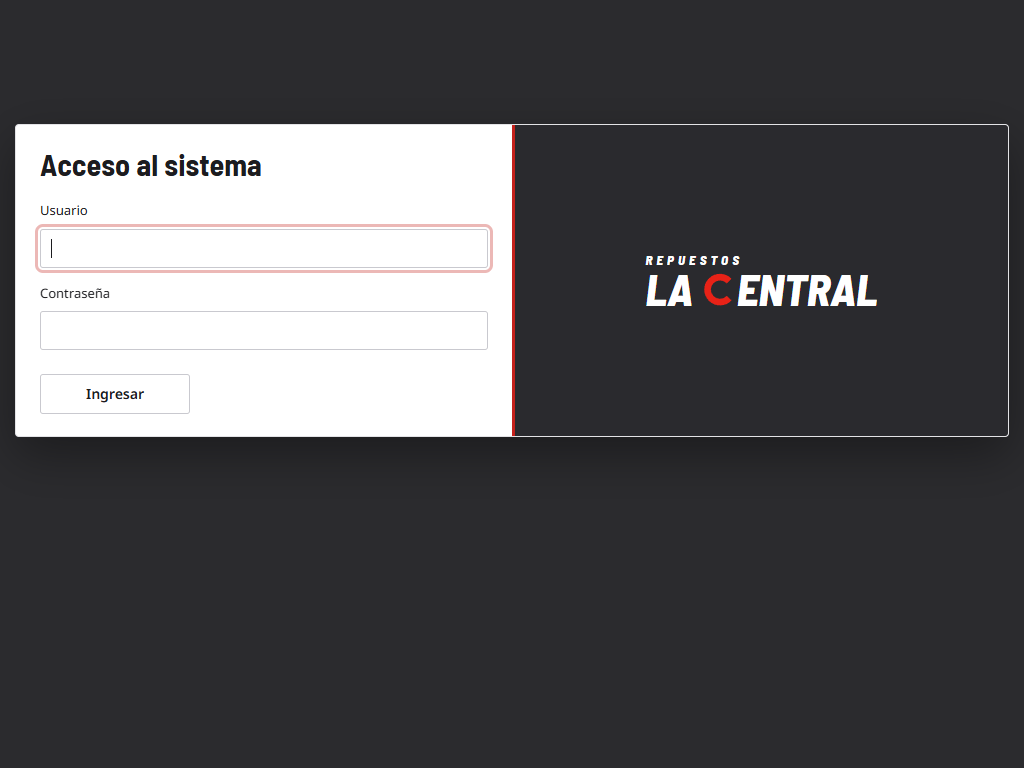
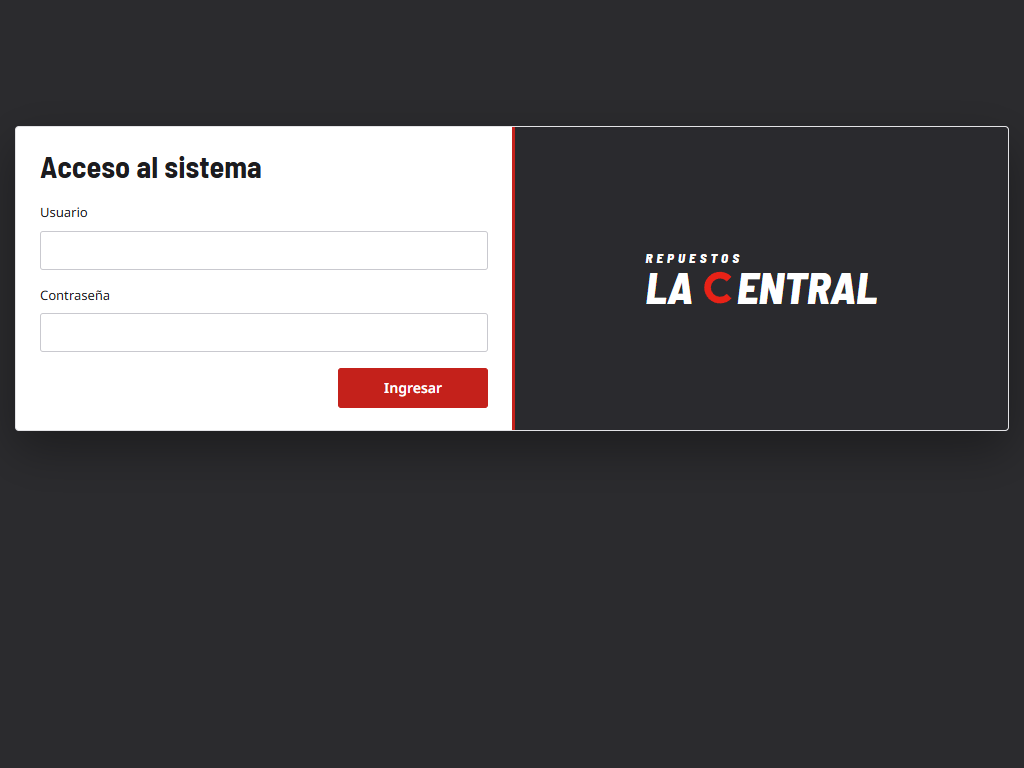
docs(HU-UI-03): ESTADO y cuerpo del PR con la extensión del formulario y el primario

diff --git a/docs/sprint04/ESTADO.md b/docs/sprint04/ESTADO.md
@@ -295,7 +295,7 @@ la vinculación funcionando con su pantalla. Todo lo demás es negociable; eso n
 |---|---|---|---|---|---|
 | Pista C · C1 | 017 · HU-STK-01 | **Mergeada en develop (#131, 20/10/2026).** Compuerta APTO (verificador y auditor). Cuerpo en `docs/sprint04/pr-hu-stk-01.md` | `feature/HU-STK-01-existencias-ubicacion` | #131 · Refs #24 | 435 (148) |
 | Pista B · B1 | 039 · HU-UI-01 | **Mergeada en develop (#130, 20/10/2026).** Aprobada con correcciones (Lauti), aplicadas antes del merge. CA2 NO verificado como está escrito | `feature/HU-UI-01-estructura-base` | #130 · Refs #40 | backend 435 (148) · frontend 21 |
-| Pista C · HU 041 + Fase 2 | 041 · HU-UI-03 | **En la rama, sin push (29/10/2026).** CA-001 a CA-004 pasan. Acceso NO verificado contra 01-acceso.png (no está en el repo) | `feature/hu-ui-03-control-de-sesion` (de `develop`) | — | frontend 74 (48 + 26) · backend 436, 148 sin enlace |
+| Pista C · HU 041 + Fase 2 | 041 · HU-UI-03 | **PR abierto contra develop (29/10/2026).** CA-001 a CA-004 pasan. Acceso NO verificado contra 01-acceso.png (no está en el repo) | `feature/hu-ui-03-control-de-sesion` (de `develop`) | cuerpo en `docs/sprint04/pr-hu-ui-03.md` | frontend 83 (48 + 35) · backend 436, 148 sin enlace |
 
 **Deuda nueva, de entorno (19/10/2026):** con un rol personal de PostgreSQL con tope de
 conexiones (`lacentral_lauti`), `dotnet test` en paralelo da **140 fallos falsos**
@@ -490,7 +490,8 @@ commitea en `develop`, todo entra por PR.
 ## HU-UI-03 · 041 + Fase 2 · control de sesión, marco y acceso (29/10/2026)
 
 Rama `feature/hu-ui-03-control-de-sesion`, sale de `develop` (6a4a942): la Fase 1 (#135) y la
-HU-UI-05 (#134) ya están ahí. **Sin push**, a la espera de aprobación.
+HU-UI-05 (#134) ya están ahí. Push aprobado el 29/10/2026; PR contra `develop`, con el cuerpo en
+`docs/sprint04/pr-hu-ui-03.md`.
 
 **Hecho:**
 - **Sesión en `sessionStorage`** (decisión de la adenda §5): sobrevive a F5 en la misma pestaña
@@ -502,10 +503,22 @@ HU-UI-05 (#134) ya están ahí. **Sin push**, a la espera de aprobación.
 - **Marco:** `diseno/marca.ts` montada por primera vez (compacta en el encabezado, completa en el
   acceso), filete rojo bajo el encabezado grafito, usuario y rol a la derecha con Salir (`oscuro`),
   pie en `--grafito-2`. El activo conserva la raya blanca y `aria-current="page"`.
-- **Acceso:** tarjeta partida (formulario | panel de marca) sobre `.fondo-hex`. Ingresar es el
-  único `.primario`, con estado de carga. Los errores van al aviso flotante de error, un objeto
+- **Acceso:** tarjeta partida (formulario | panel de marca) sobre `.fondo-hex`. Usa
+  `compartido/formulario/`: es su primer consumidor. Ingresar es el único `.primario`, con estado
+  de carga. Los errores van al aviso flotante de error, un objeto
   `{ texto }` por intento. Un 401 dice siempre «Usuario o contraseña incorrectos.», aunque el
   servidor dijera de más. Al abrirse, el foco queda en Usuario.
+- **Extensión de `compartido/formulario/` (componente ajeno, recién mergeado).** Decisión del
+  29/10/2026: va en este PR y no en uno aparte, por calendario (el sprint cierra el 30/10). Se
+  agregó `'password'` a `CampoFormulario.tipo` y `autocompletar` (el atributo `autocomplete`).
+  Motivo: el componente no soportó su primer uso real. Sin `password`, la contraseña se ve en
+  claro. Sin `username` y `current-password`, los gestores de contraseñas no completan el acceso
+  y el operador escribe a mano todos los días. Lo revisa Javi sabiendo que está.
+- **`button.primario` en `styles.css`: hueco de la Fase 1 que este PR cierra.** La clase se
+  declaraba (formulario, acceso) pero ninguna regla la pintaba, y no la hubo en ninguna rama. Sale
+  de la §7: relleno `--rojo`, texto `--blanco`, `--rojo-osc` al apoyar el cursor. La capa, el foco,
+  la carga y el deshabilitado son los de la base. Se levantó, con motivo, la restricción de no
+  tocar `styles.css`: es un defecto en código mergeado, no trabajo en paralelo.
 - Manual: `docs/manual/acceso.md` (DoD 9) y `navegacion.md` corregido (F5 y la raya blanca).
 - Proforma 041 en E4 con los CA marcados.
 
@@ -516,13 +529,16 @@ HU-UI-05 (#134) ya están ahí. **Sin push**, a la espera de aprobación.
   entrar, el usuario queda en la pantalla que pidió.
 - **CA-004** pasa. En Chrome real, `history.back()` después de Salir muestra el acceso.
 
-**Tests:** frontend **74/74** (48 previos + 26 nuevos). Backend: **436 en total; 288 verdes y 148
+**Tests:** frontend **83/83** (48 previos + 35 nuevos). Backend: **436 en total; 288 verdes y 148
 en rojo por `Timeout during connection attempt` contra 100.125.169.91:5432** (enlace de
 Tailscale). No hubo `53300`. Son exactamente los 148 de PostgreSQL, y esta rama no toca backend.
 
-**Mutaciones:** 21 sobre producción (`sesion.ts`, `login.ts`, `app.ts`). Las 21 ponen al menos un
-test en rojo. El bug de `#usuario` (abajo), reintroducido tal cual, deja en rojo solo el test del
-cuerpo del login.
+**Mutaciones:** 35 distintas sobre producción: `sesion.ts`, `login.ts`, `app.ts`, `formulario.ts`
+y la regla `button.primario`. Todas dejan al menos un test en rojo. Dos sobrevivieron
+después de migrar el acceso al formulario (la contraseña como texto, sin `autocompletar`): el
+formulario lo probaba en general, pero no que la pantalla lo pidiera. Se agregó ese test y las dos
+mueren. El bug de `#usuario` (abajo), reintroducido tal cual, deja en rojo solo el test del cuerpo
+del login.
 
 **Bug encontrado por la evidencia, no por los tests:** la referencia `#usuario` tapaba a la
 propiedad `usuario` del `ngModel`, y el campo mostraba `[object HTMLInputElement]`. Ningún test
@@ -545,27 +561,41 @@ afirmaba qué credenciales se envían. Ciclo rojo → arreglo en `d14a0bd`.
   «Acceso al sistema».
 - **Fondo hexagonal.** `public/fondo-hex.jpg` no está. `.fondo-hex` apunta al archivo y se ve el
   respaldo `--fondo-hex-respaldo` (#2b2b2e).
-- **Ingresar no se ve primario.** `styles.css` no tiene regla `button.primario`, y no la tuvo nunca
-  en ninguna rama. La clase está aplicada (test) pero el botón pinta como secundario. Pasa lo mismo
-  con el botón de `compartido/formulario/`. No se tocó `styles.css`.
 - **DoD 10** (contra `lacentral_demo`): C3 sigue pendiente. El recorrido en el navegador fue con
   la API interceptada (401/200 en el login, 503 o 401 en el resto), sin backend.
 - **Solo Chromium.**
 
-**Hallazgos para decidir:**
-1. **`compartido/formulario/` no soportó su primer uso real.** `CampoFormulario.tipo` no admite
-   `'password'` y no hay `autocomplete`. Sin eso la contraseña se vería en claro y los gestores de
-   contraseñas no completan el campo. Los campos del acceso siguen siendo los que había (`shortcut:`
-   en `login.ts`); no se armó otro formulario ni se parcheó desde afuera. Migrar son ~10 líneas
-   cuando el formulario tenga los dos.
-2. **El aviso flotante pierde el foco al cerrarse** (queda en `body`) y Escape no lo cierra. Es de
-   `compartido/aviso-flotante.ts`; no se tocó.
-3. **HU-UI-06 no está en develop.** `confirmacion-motivo.ts` vive solo en
-   `origin/feature/hu-ui-06-confirmacion-con-motivo`, que además modifica `formulario.ts`
-   (`maximo`, `coincideCon`, `varianteEnviar`, slot de acciones).
-4. **Token para el filete y el panel de marca.** Se usó `--grosor-foco` (3 px), como ya hace la
-   raya del activo en `styles.css`. Si el filete tiene otro grosor, hace falta un token.
-5. **`node_modules` sin Karma.** `ng test` fallaba con `Cannot find module 'karma-jasmine'`. Se
+**Referencias y fondo:** los sube Javi. Se le pidieron el 29/10/2026, porque bloquean tres
+declaraciones de esta HU: acceso contra 01-acceso.png, marco contra su referencia y fondo
+hexagonal. Se le ofreció hacer la recompresión de las cuatro capturas pesadas que tiene
+pendiente el PR #132.
+
+**HU-UI-06 · pendiente (29/10/2026).** No está en develop: `confirmacion-motivo.ts` vive solo en
+`origin/feature/hu-ui-06-confirmacion-con-motivo`, y no se tocó. Esa rama modifica `formulario.ts`
+(`maximo`, `coincideCon`, `varianteEnviar`, slot de acciones) y este PR también (`password`,
+`autocompletar`). Cuando entre, necesita un merge con lo de acá.
+
+**Deuda · `compartido/aviso-flotante.ts`, foco y Escape (29/10/2026).** Medido en Chrome:
+- al cerrar el aviso con teclado, el foco cae en `body`;
+- Escape no lo cierra.
+
+No viola la especificación: la §8 exige Escape para el modal y no dice nada del aviso. El hueco
+está en el documento antes que en el código. Un aviso de error no se va solo y no se cierra con
+teclado, así que el usuario de teclado queda con un cartel del que solo sale con el mouse.
+- **Deuda del componente:** al cerrarse, devolver el foco al elemento que lo originó, y cerrar con
+  Escape.
+- **Propuesta de agregado a la §8** (fila «Aviso flotante»; la aprueba Javi antes de implementarla):
+  «Escape cierra el aviso que tiene el foco o, si ninguno lo tiene, el de error a la vista. Al
+  cerrarse, el foco vuelve al elemento que lo originó; si ya no existe, al primer control de la
+  pantalla, nunca a `body`.»
+
+**Observaciones sin decidir:**
+1. **Grosor del filete y del panel de marca.** Se usó `--grosor-foco` (3 px), como ya hace la raya
+   del activo en `styles.css`. Si el filete tiene otro grosor, hace falta un token.
+2. **`button.peligro` no pone el texto en blanco.** La §7 dice «`--peligro`, texto blanco», y la
+   regla solo pone el relleno, así que el texto queda en `--tinta` sobre rojo oscuro. Es otro hueco
+   de la Fase 1 y está fuera del alcance de este PR: no se tocó.
+3. **`node_modules` sin Karma.** `ng test` fallaba con `Cannot find module 'karma-jasmine'`. Se
    arregló con `npm ci` (el lock no cambió). `npm` sigue bloqueando los 4 install scripts de N4.
 
 **Deuda registrada · insumo del RNF de seguridad (29/10/2026).**
@@ -607,9 +637,9 @@ Va en `frontend/src/app/compartido/` y se prueba con
 criterios de la PISTA B. Avisar a Lauti y a Santi de la respuesta (b) de Sergio: HU-CMP-08 no se
 resuelve con archivo.
 
-**HU-UI-03 (041):** en `feature/hu-ui-03-control-de-sesion`, sin push. Antes del PR hace falta
-la aprobación, y antes de cerrarla, las decisiones de «Hallazgos para decidir» de la sección
-HU-UI-03: el `password` del formulario, la regla `button.primario` y las referencias visuales.
+**HU-UI-03 (041):** PR abierto contra `develop` (`docs/sprint04/pr-hu-ui-03.md`), en revisión.
+Faltan las referencias y el fondo de Javi para cerrar las tres declaraciones NO verificadas. Si
+entra HU-UI-06, va a necesitar un merge sobre `formulario.ts`.
 
 **Dónde parás de verdad:** si hace falta tocar el esquema, si un CA contradice a otro o al
 esquema, si falta una regla de negocio que nadie definió, si PostgreSQL no está disponible —una

diff --git a/docs/sprint04/pr-hu-ui-03.md b/docs/sprint04/pr-hu-ui-03.md
@@ -1,0 +1,103 @@
+## 041 · HU-UI-03 · Control de sesión, marco y acceso (con la Fase 2 del rediseño)
+
+Rama `feature/hu-ui-03-control-de-sesion`, base `develop` (6a4a942, con la Fase 1 #135 y la
+HU-UI-05 #134). La HU 041 y la Fase 2 van juntas por la adenda §2: son la misma pantalla.
+
+Los CA salen de `docs/historias/041-HU-UI-03.md`, que queda en E4.
+
+### Qué se hizo
+
+- **Sesión en `sessionStorage`** (adenda §5). Sobrevive a F5 en la misma pestaña y muere al
+  cerrarla. Salir la borra. Un valor ilegible cuenta como sin sesión. El token no se decodifica
+  en el navegador: el rol es el que devuelve el login (decisión de B1).
+- **Vencimiento (CA-002).** Un 401 con el token vigente cierra la sesión, y el acceso dice «Tu
+  sesión venció. Volvé a entrar.». Un 403 no la cierra. Un 401 tardío de un token anterior no
+  cierra la sesión nueva.
+- **Marco.**
+  - `diseno/marca.ts` montada por primera vez: compacta en el encabezado, completa en el acceso.
+  - Filete rojo bajo el encabezado grafito, y usuario y rol con Salir (`oscuro`) a la derecha.
+  - Pie en `--grafito-2`.
+  - El activo conserva la raya blanca y `aria-current="page"`.
+- **Acceso.**
+  - Tarjeta partida sobre `.fondo-hex`, armada con `compartido/formulario/`: es su primer
+    consumidor.
+  - Ingresar es el único `.primario`.
+  - Los errores van al aviso flotante como `{ texto }`, uno por intento.
+  - Un 401 dice siempre «Usuario o contraseña incorrectos.», sin confirmar que el usuario existe.
+  - Al abrirse, el foco queda en Usuario, también después de Salir o de un vencimiento.
+- Manual (DoD 9): `docs/manual/acceso.md`, y `navegacion.md` corregido (F5 y la raya blanca).
+
+### ⚠ Dos cambios en código ajeno ya mergeado · para revisar sabiendo que están
+
+**1 · Extensión de `compartido/formulario/` (HU-UI-05, recién mergeado).** El acceso es el primer
+uso real del componente, y el componente no lo soportó:
+- `CampoFormulario.tipo` no admitía `'password'`, así que la contraseña se hubiera visto en claro;
+- no había `autocomplete`, y sin `username` y `current-password` los gestores de contraseñas no
+  completan el formulario: el operador escribe a mano todos los días.
+
+Se agregaron `'password'` a la unión de `tipo` y `autocompletar?: string`, enlazado como
+`[attr.autocomplete]`. Van en este PR y no en uno aparte por calendario: el sprint cierra el
+30/10, y eran dos líneas. Son tres commits (`b19a5a4`, `039479d` y `4fa08e5`) y
+cuatro tests en `formulario.spec.ts`:
+- `type="password"`;
+- el valor escrito no queda en el marcado;
+- cada campo lleva su `autocomplete`;
+- un campo sin `autocompletar` no lleva el atributo.
+
+**Ojo:** `feature/hu-ui-06-confirmacion-con-motivo` también modifica `formulario.ts`. Cuando entre,
+necesita un merge con esto.
+
+**2 · `button.primario` en `styles.css`: hueco de la Fase 1 que este PR cierra.** La clase se
+declaraba (en el formulario y en el acceso), pero ninguna regla la pintaba, en ninguna rama: el
+botón se veía secundario. La regla sale de la §7: relleno `--rojo`, texto `--blanco` y `--rojo-osc`
+al apoyar el cursor. La capa, el foco, la carga y el deshabilitado son los de la base. Va al final
+de las variantes de botón, así que un conflicto con otro cambio en el archivo es trivial. La prueba
+está en `compartido/botones.spec.ts`, que afirma diferencias entre variantes y no valores de color.
+
+### Criterios de aceptación
+
+| CA | Estado | Prueba |
+|---|---|---|
+| CA-001 · el token viaja solo | Verificado (caracterización: ya se cumplía desde B1) | `CA-001 · con sesión activa, toda llamada…`, `CA-001 · el login no lleva token` |
+| CA-002 · sesión vencida → al ingreso, informando | Verificado | `CA-002 · un 401 con la sesión vigente…`, `un 403 no cierra…`, `el 401 de un token anterior…`, `CA-002 · si la API rechaza el token vencido…`, `CA-002 · si la sesión anterior venció…` |
+| CA-003 · sin sesión, una URL interna lleva al ingreso | Verificado (caracterización) | `CA-003 · sin sesión, escribir la dirección…` |
+| CA-004 · Salir descarta el token y volver atrás no deja operar | Verificado | `CA-004 · Salir descarta el token…`, `CA-004 · después de Salir, las llamadas…`, `CA-004 · después de Salir, volver a la pantalla anterior…`; en Chrome, `history.back()` muestra el acceso |
+
+### Verificación
+
+- `npx ng build`: OK.
+- `npx ng test --watch=false --browsers=ChromeHeadless`: **83/83** (48 previos + 35 nuevos).
+- **Mutaciones:** 35 distintas, sobre `sesion.ts`, `login.ts`, `app.ts`, `formulario.ts` y la regla
+  `button.primario`. Todas dejan al menos un test en rojo.
+- `dotnet test`: **436 en total; 288 verdes y 148 en rojo por `Timeout during connection attempt`**
+  contra el PostgreSQL de Tailscale. No hubo `53300`. Son exactamente los 148 de PostgreSQL, y este
+  PR no toca `backend/`.
+- **Evidencia en `docs/sprint04/evidencia/hu-ui-03/`** (`capturas-cdp.mjs`, `mediciones-cdp.txt`):
+  - 13 capturas a 1024, 768 y 480 px, sin desplazamiento horizontal;
+  - F5 conserva la ruta y la sesión, y `localStorage` queda vacío;
+  - recorrido con teclado; Enter en Salir deja el foco en Usuario;
+  - con movimiento reducido, sin transiciones ni animación;
+  - `grep` de hexadecimales fuera de `styles.css`: ninguno.
+- **Bug encontrado por la evidencia, no por los tests:** una referencia `#usuario` tapaba al
+  `ngModel`, y el campo mostraba `[object HTMLInputElement]`. Ciclo propio: test en rojo
+  (`un ingreso envía lo que el usuario escribió…`) y el arreglo en `d14a0bd`.
+
+### Qué NO se hizo, y por qué
+
+- **Acceso y marco contra su referencia: NO verificado.** `docs/diseno/referencias/` no está en el
+  repo (los sube Javi). Quedaron, a confirmar: el filete abajo, el pie «La Central Repuestos» y el
+  título «Acceso al sistema».
+- **Fondo hexagonal: NO verificado.** `public/fondo-hex.jpg` no está. Se ve el respaldo
+  `--fondo-hex-respaldo`.
+- **DoD 10: NO verificada.** `lacentral_demo` (C3) sigue pendiente, y el recorrido fue con la API
+  interceptada.
+- **Aviso flotante: registrado como deuda, no arreglado.** Pierde el foco al cerrarse y no se cierra
+  con Escape. Hay propuesta de agregado a la §8 en `ESTADO.md`.
+- **`button.peligro` sin texto blanco** (§7): otro hueco de la Fase 1, fuera de alcance. Anotado.
+- **Deuda de seguridad (insumo del RNF):** cookie `httpOnly` con refresco y CSRF en vez de
+  `sessionStorage`. Se postergó porque exige tocar el backend. Detalle en `ESTADO.md`.
+- La suite de frontend corre solo en Chromium.
+
+**Issue de la 041:** no figura entre los creados uno por HU (`ESTADO.md`, Issues de GitHub). Falta crearlo, con el milestone Sprint 4.
+
+🤖 Generated with [Claude Code](https://claude.com/claude-code)
